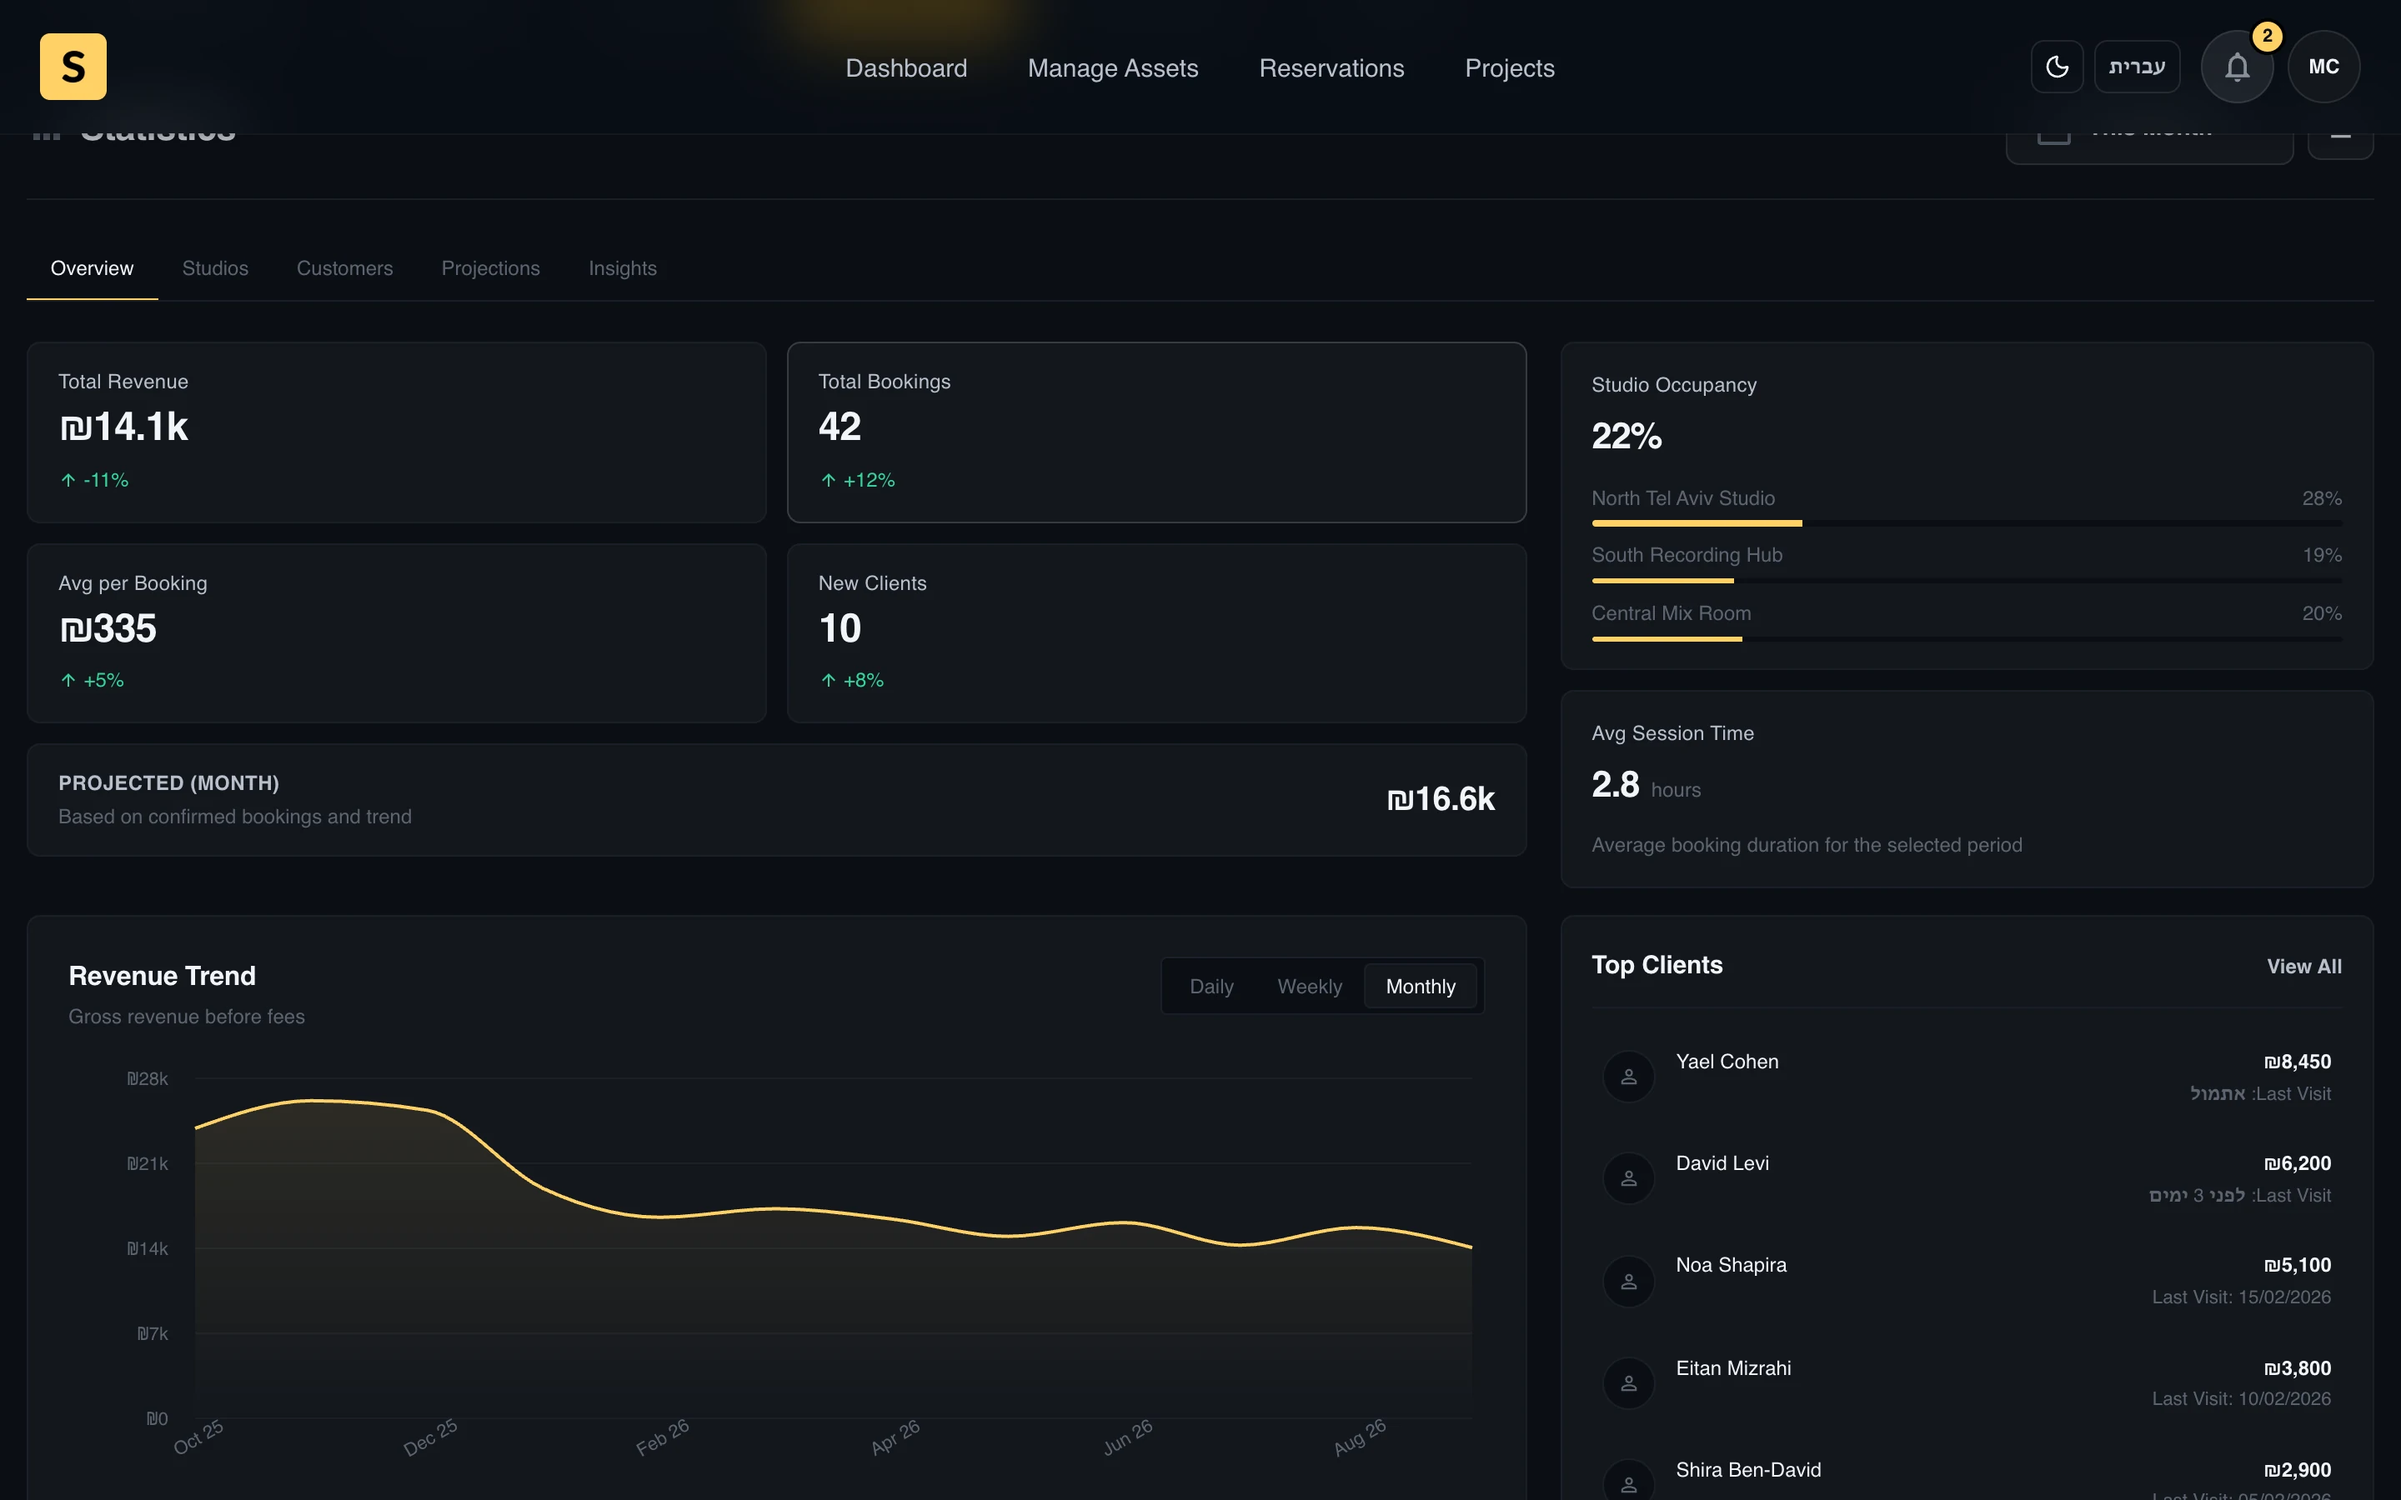
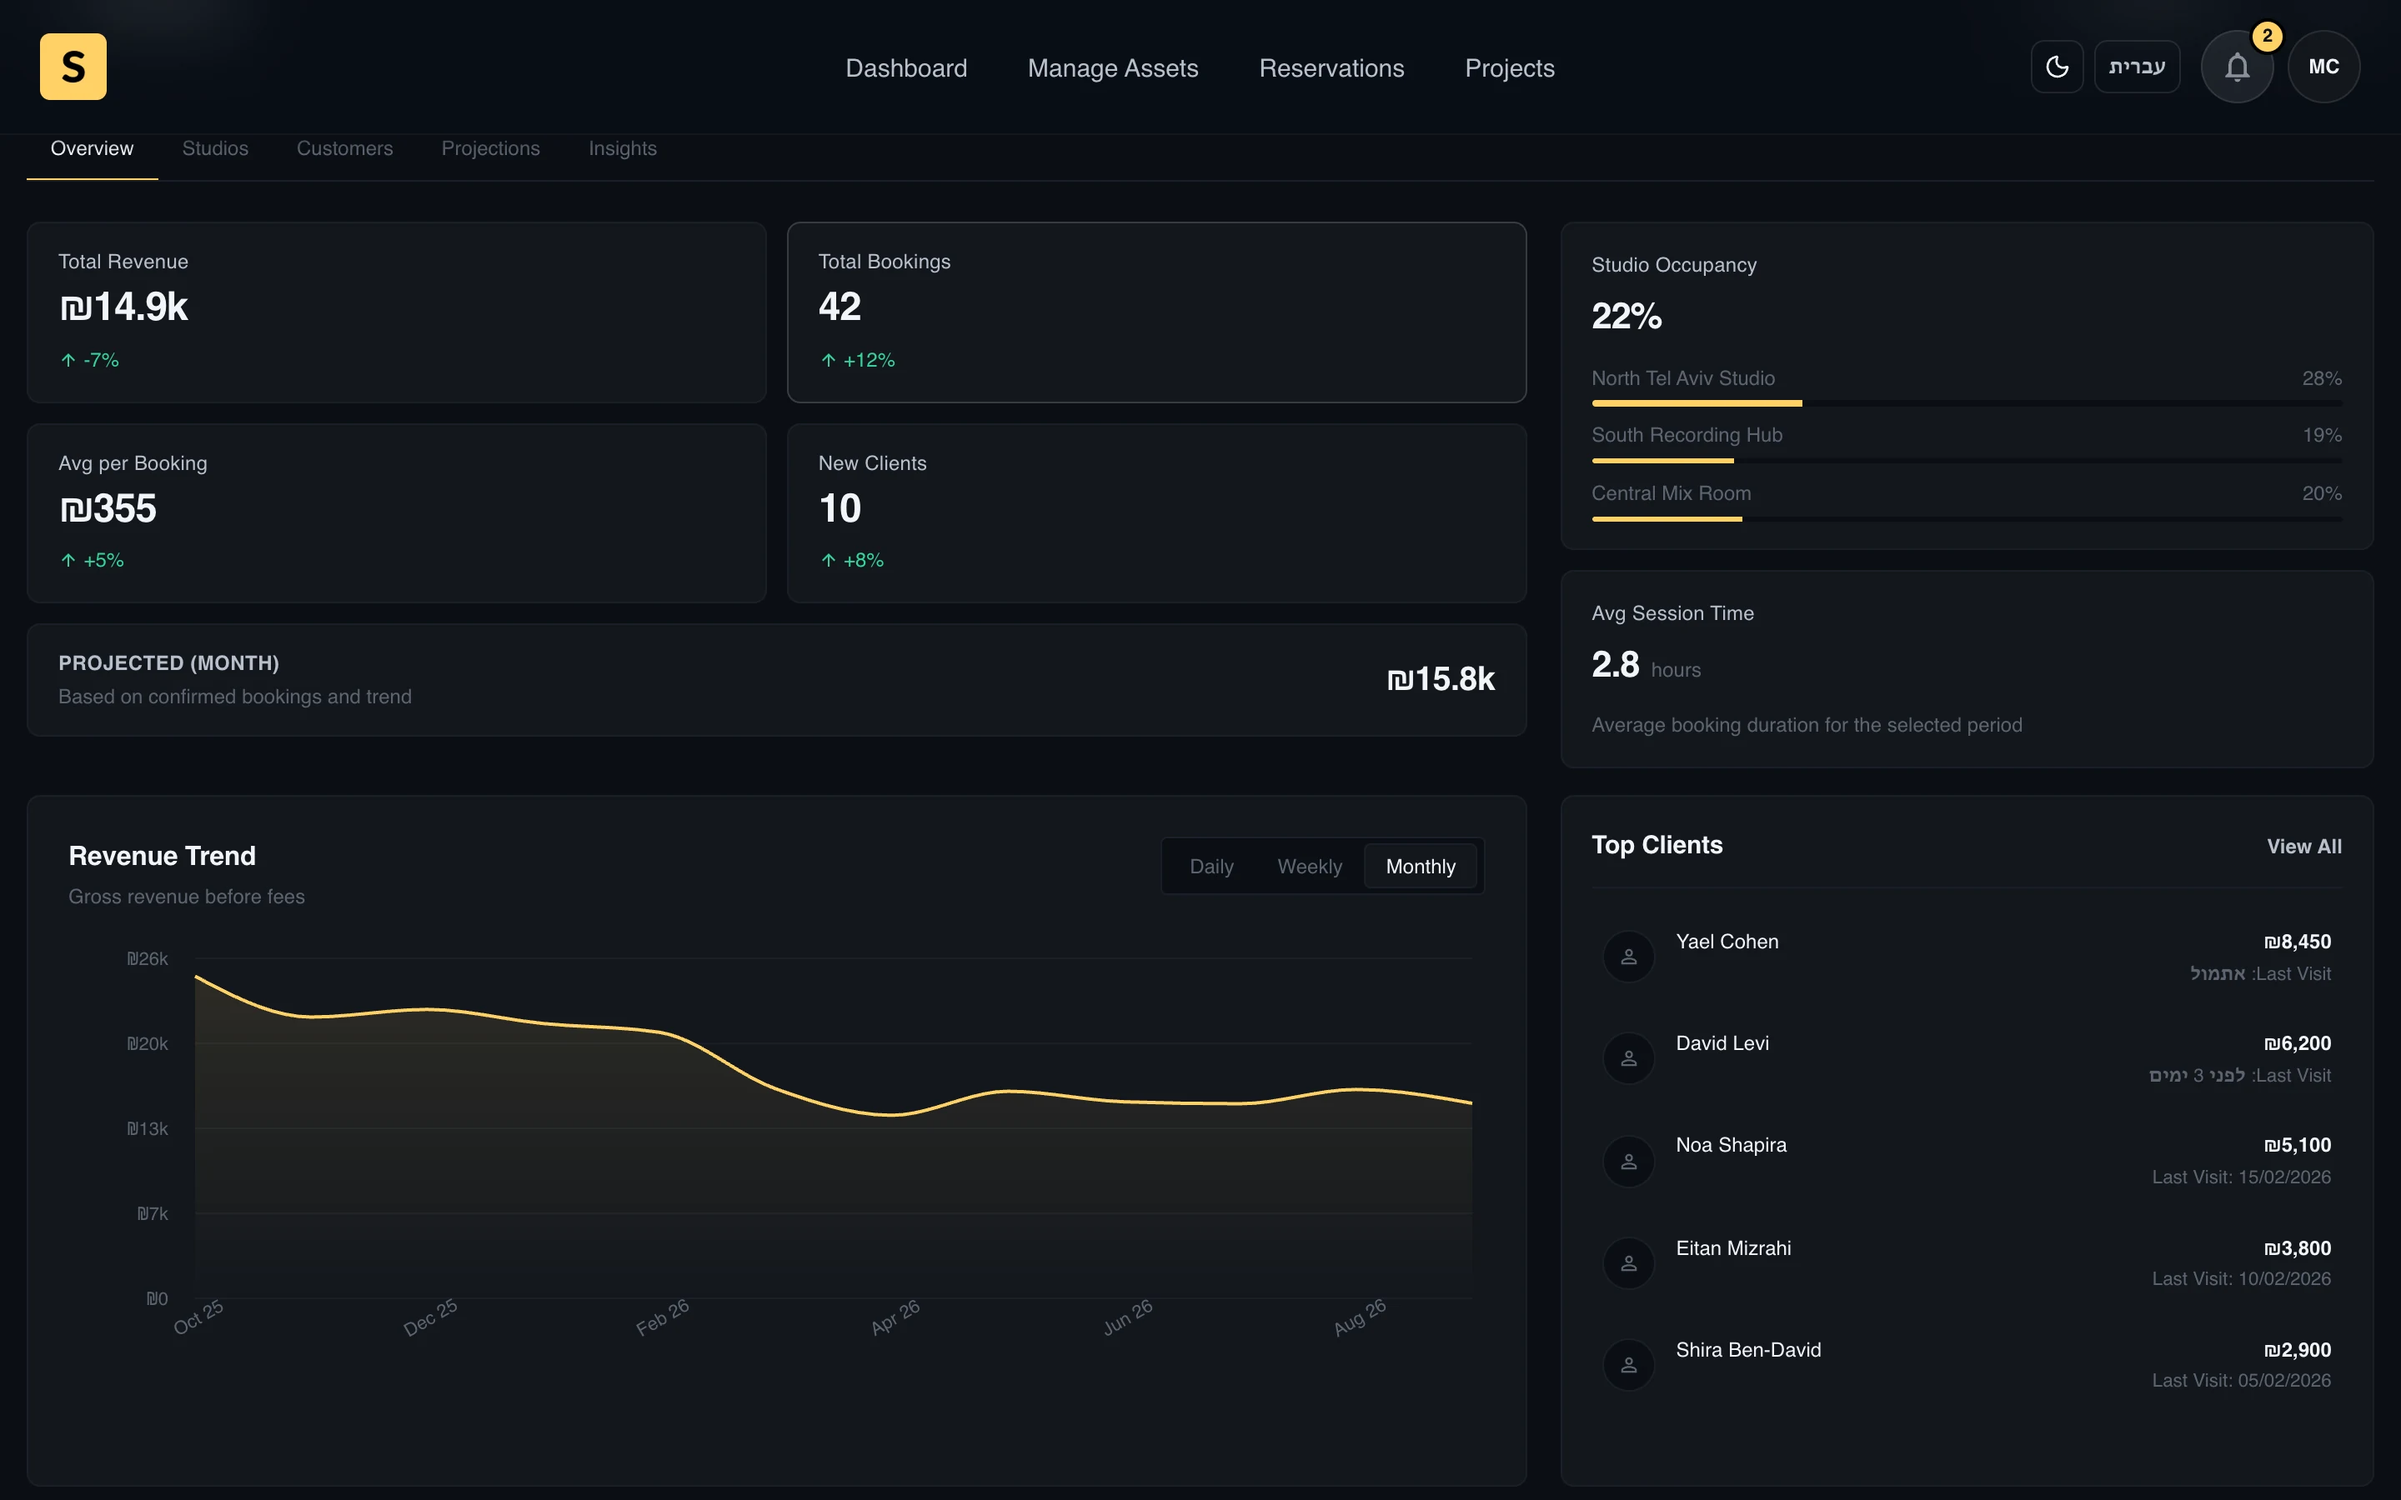
fix: refine device frames and analytics capture

diff --git a/tools/app-store-screenshots/src/render/renderer.ts b/tools/app-store-screenshots/src/render/renderer.ts
@@ -215,7 +215,7 @@ body{font-family:"Studioz Body",sans-serif;background:${backgroundCss(definition
 .screen{position:relative;width:100%;height:100%;overflow:hidden;border-radius:inherit;background:#0b0e12;box-shadow:inset 0 0 0 1px rgba(255,255,255,.12)}
 .screen-viewport{position:absolute;z-index:1;top:var(--chrome-height);right:0;bottom:0;left:0;overflow:hidden;background:#0b0e12}
 .screen img{display:block;width:100%;height:100%;object-fit:cover;object-position:${escapeHtml(definition.crop?.objectPosition || 'center top')};filter:${screenFilter}}
-.island{position:absolute;z-index:4;top:2.3%;left:50%;width:30%;height:3.8%;transform:translateX(-50%);border-radius:999px;background:#020203;box-shadow:inset 0 -1px 2px rgba(255,255,255,.08)}
+.island{position:absolute;z-index:4;top:1.1%;left:50%;width:28%;height:2.35%;transform:translateX(-50%);border-radius:999px;background:#020203;box-shadow:inset 0 -1px 2px rgba(255,255,255,.08)}
 .desktop-bar{position:absolute;z-index:4;top:0;left:0;right:0;height:5.2%;display:flex;align-items:center;gap:1.2%;padding:0 1.5%;direction:ltr;background:rgba(22,24,28,.96);border-bottom:1px solid rgba(255,255,255,.08)}
 .desktop-bar i{display:block;width:1.15%;aspect-ratio:1;border-radius:50%;background:#ff675f}.desktop-bar i:nth-child(2){background:#ffbd44}.desktop-bar i:nth-child(3){background:#2acb55}
 .template-dual .device-slot.slot-1{left:42%}.template-dual .device-slot.slot-2{left:58%}
@@ -266,7 +266,7 @@ export function getDeviceChromeMetrics(device: DeviceId): {
   frameRatio: number;
 } {
   const spec = DEVICE_SPECS[device];
-  const chromeHeight = spec.family === 'desktop' ? 52 : spec.family === 'tablet' ? 34 : 68;
+  const chromeHeight = spec.family === 'desktop' ? 52 : spec.family === 'tablet' ? 34 : 44;
   const framedHeight = spec.viewport.height + chromeHeight;
   return {
     chromeHeight,

diff --git a/tools/app-store-screenshots/src/screenshot-generator.test.ts b/tools/app-store-screenshots/src/screenshot-generator.test.ts
@@ -78,7 +78,7 @@ describe('device and layout specifications', () => {
   );
 
   it('reserves frame space so device chrome cannot cover application navigation', () => {
-    expect(getDeviceChromeMetrics('iphone-6.9').chromeHeightPercent).toBeGreaterThan(6.1);
+    expect(getDeviceChromeMetrics('iphone-6.9').chromeHeightPercent).toBeGreaterThan(4.2);
     expect(getDeviceChromeMetrics('desktop-1440').chromeHeightPercent).toBeGreaterThan(5.2);
     expect(getDeviceChromeMetrics('ipad-13').chromeHeight).toBeGreaterThan(0);
   });

diff --git a/tools/app-store-screenshots/screenshots.config.ts b/tools/app-store-screenshots/screenshots.config.ts
@@ -628,7 +628,7 @@ const scenes: ScreenshotScene[] = [
     actions: [{ type: 'click', selector: '.quick-actions__header' }],
     primaryActions: [
       { type: 'click', selector: '.quick-actions__header' },
-      { type: 'scroll', selector: '.revenue-chart', offsetY: -96 }
+      { type: 'scroll', selector: '.revenue-chart', offsetY: -24 }
     ],
     deviceTransform: { scale: 0.66, x: -300, y: 130, rotation: -1, shadow: true },
     secondaryDeviceTransform: { scale: 0.37, x: 350, y: 170, rotation: 2, shadow: true },
